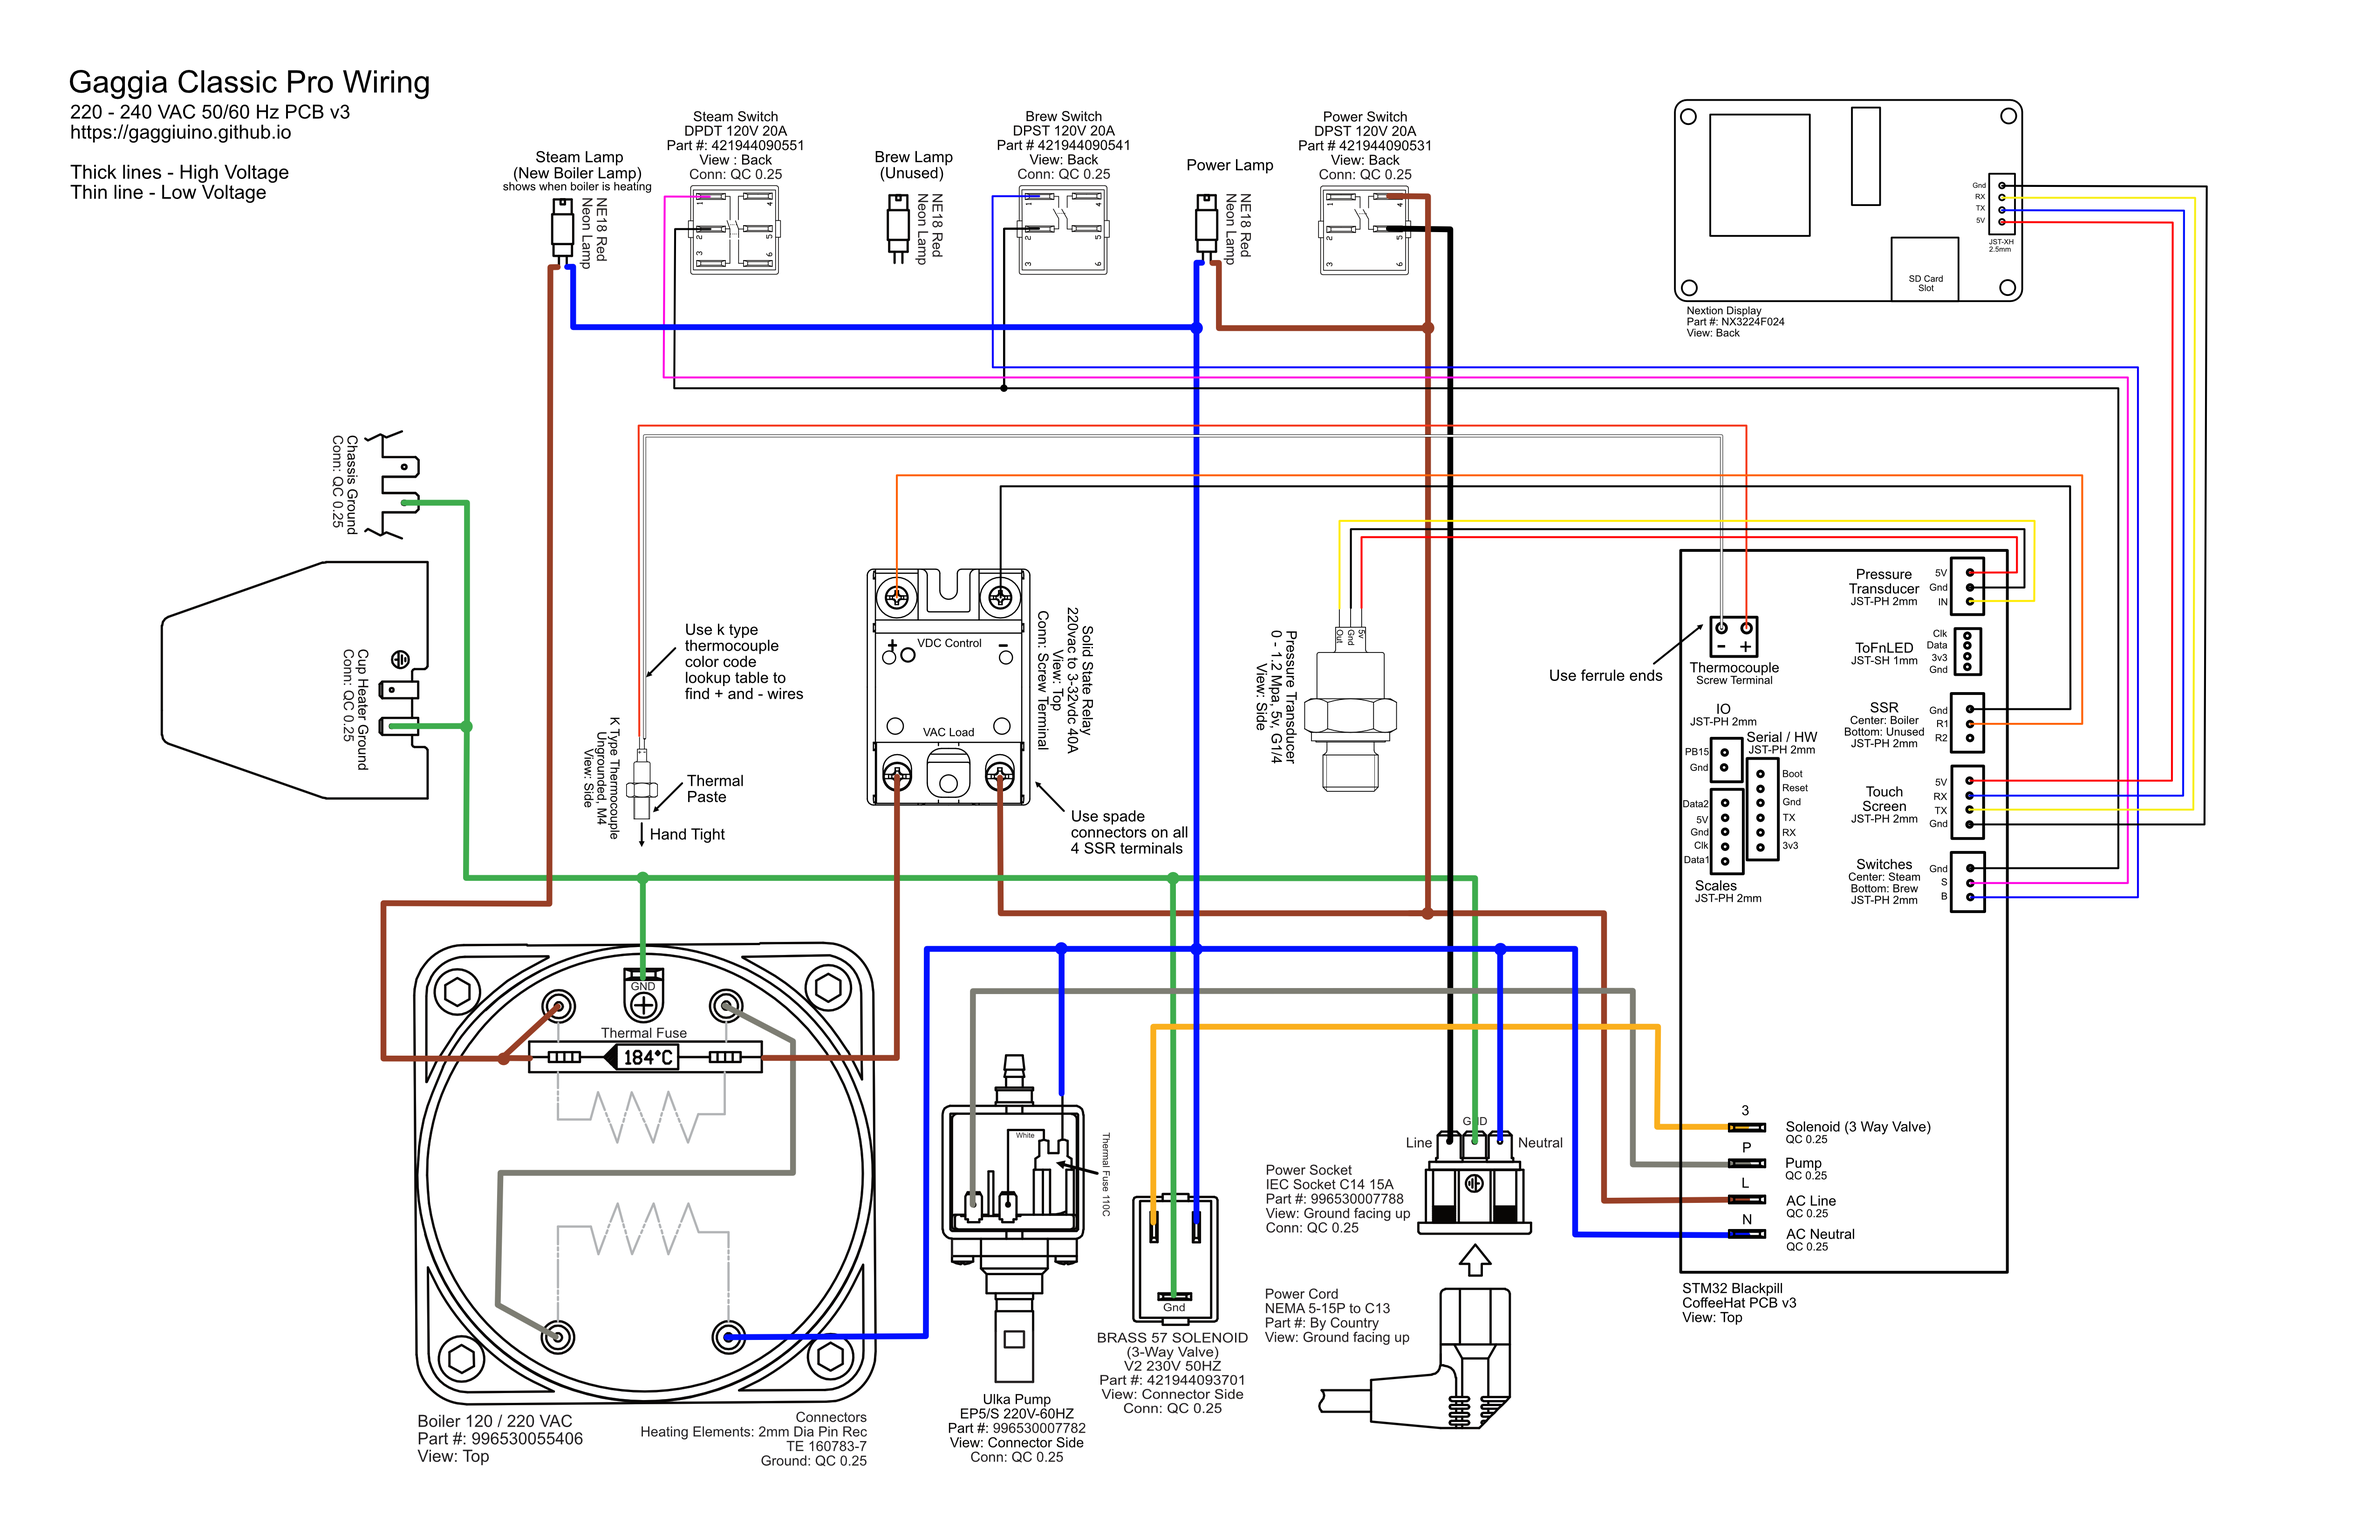
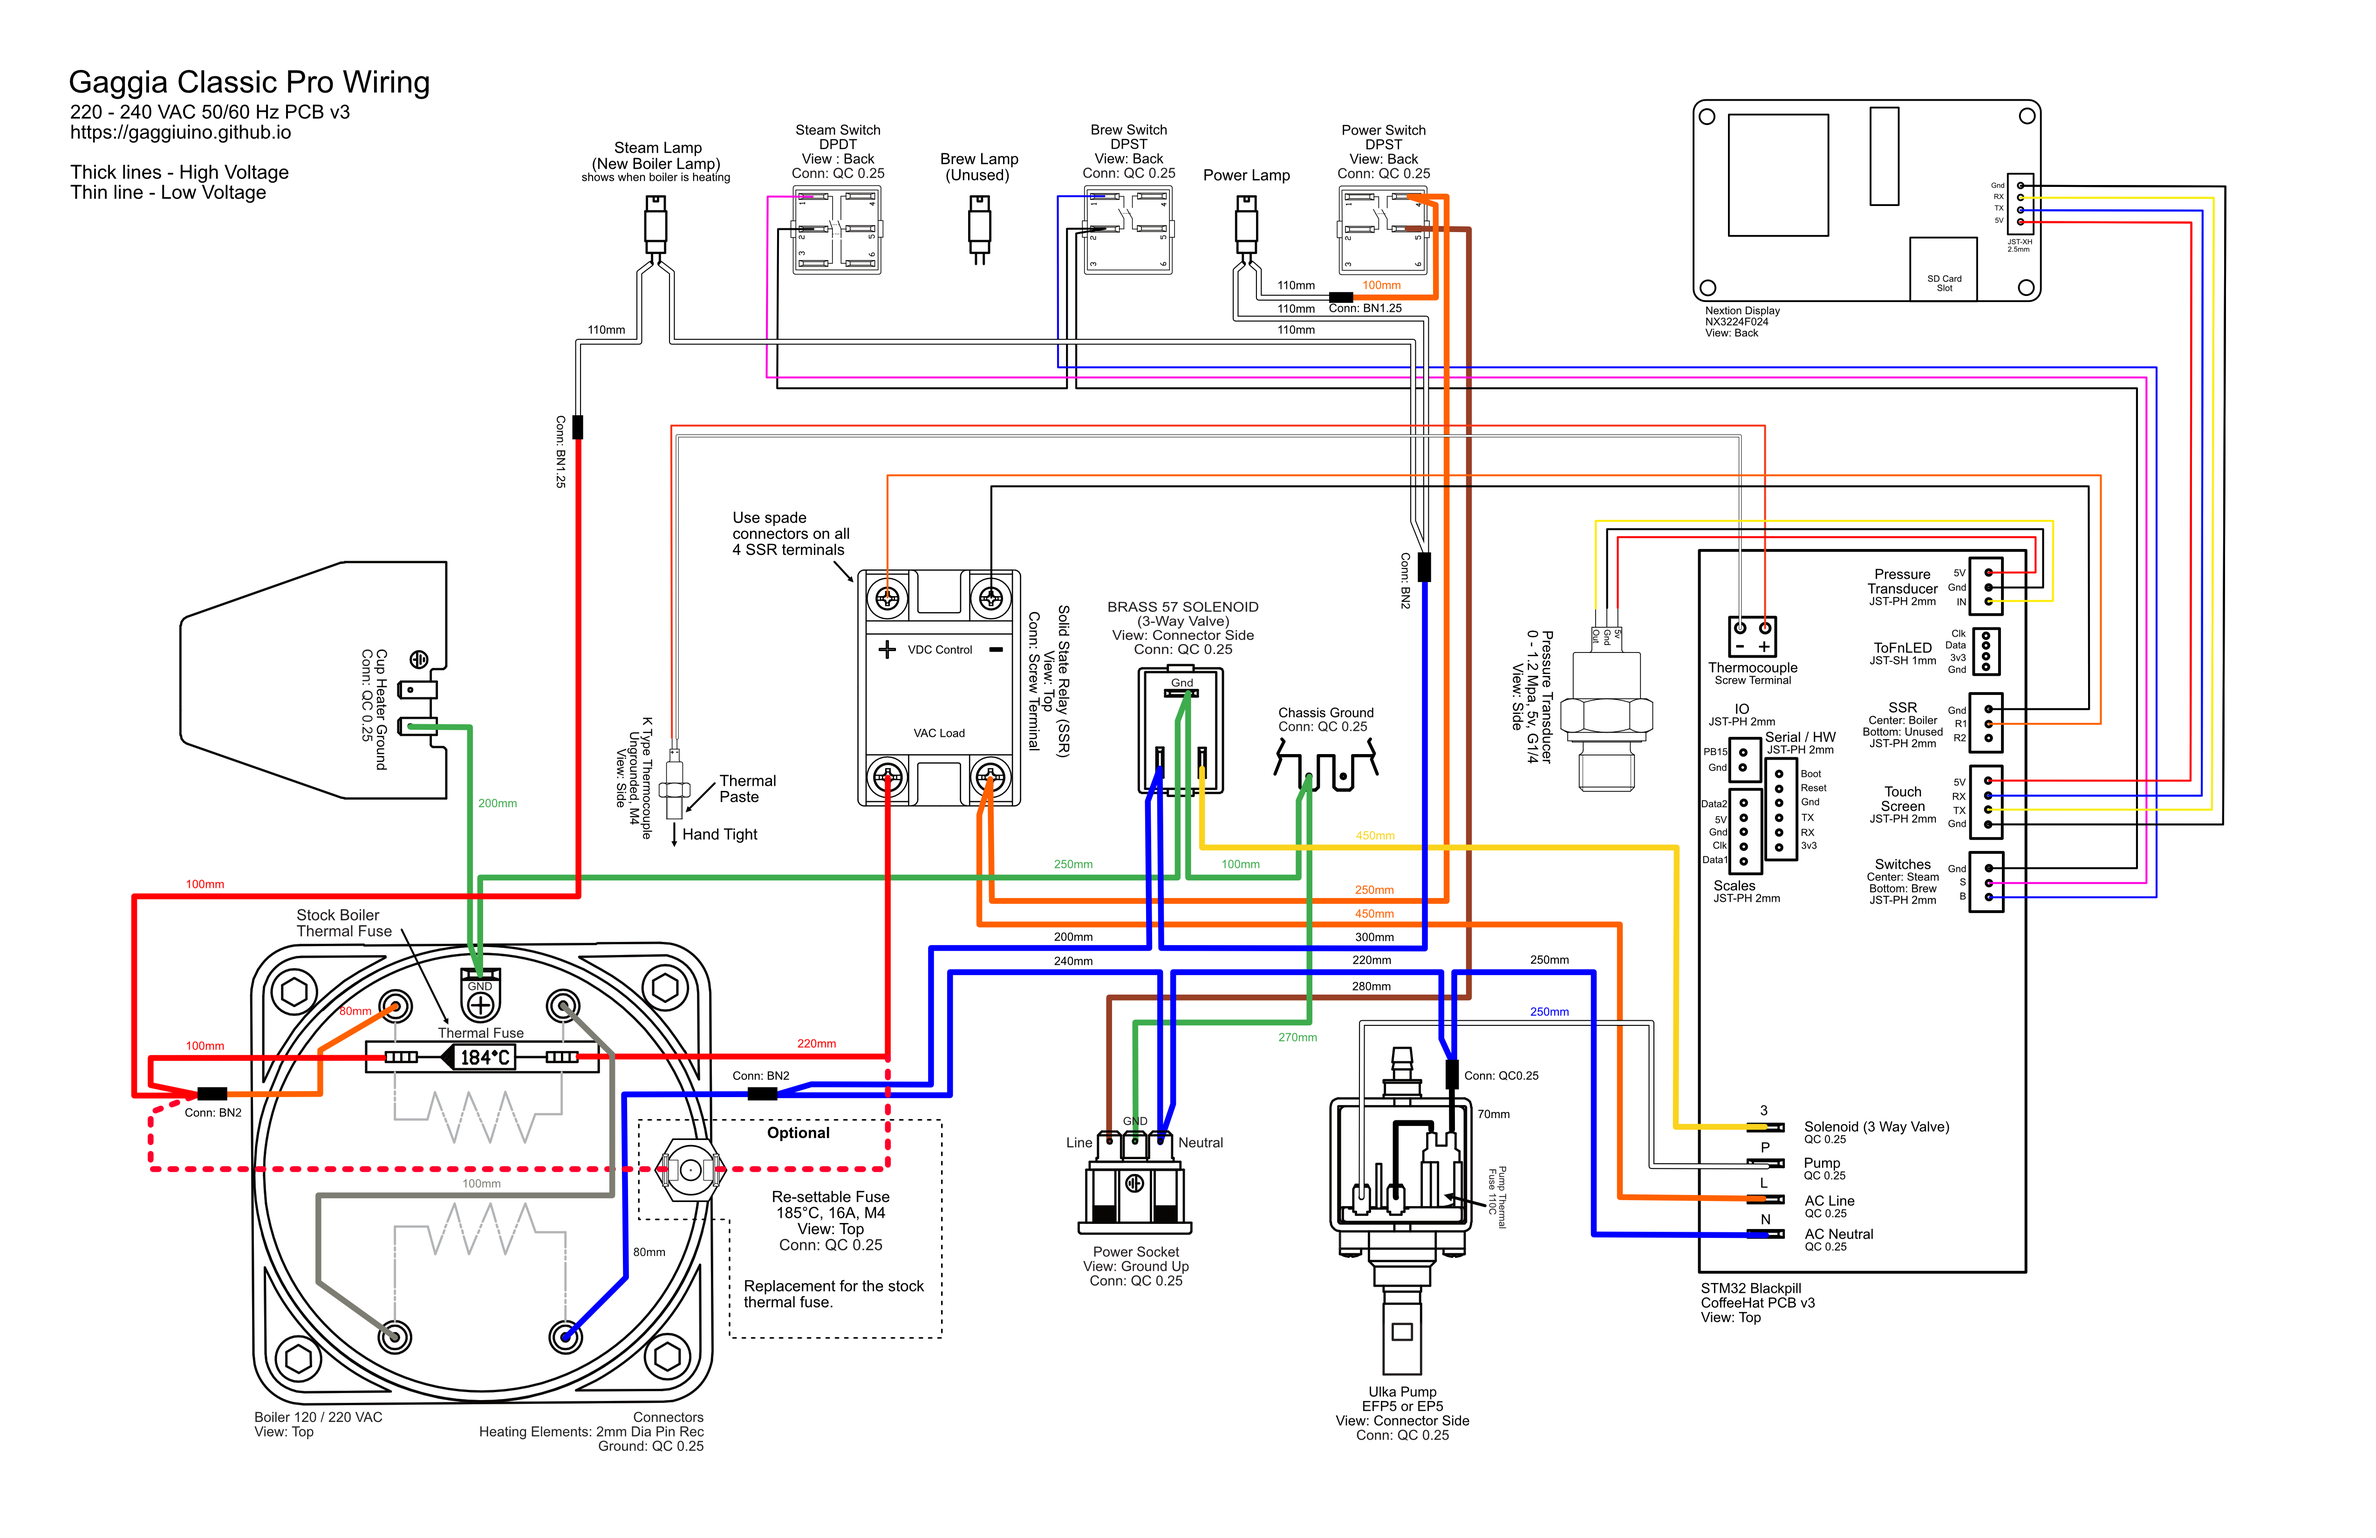
Update bench test with PCBv3.1. Add PCBv3.1 schematics, link and integrate. Align PCBv3 naming and remove old schematic revs from folder.

diff --git a/docs/guides-stm32/pcb-guide.md b/docs/guides-stm32/pcb-guide.md
@@ -21,14 +21,41 @@ See [MCU Flashing](guides-stm32/mcu-flashing.md) for instructions on flashing th
 
 <!-- tabs:start -->
 <!-- tab:GC -->
-<img height="400" alt="image" src="schematics/stm32-lv/GC_wiring_PCBv3_LV.png">
+  <!-- tabs:start -->
+  <!-- tab:PCBv3.1 -->
+  <img height="400" alt="image" src="schematics/stm32-lv/GC_wiring_PCBv3_1_LV.png">
+  <!-- tab:PCBv3 -->
+  <img height="400" alt="image" src="schematics/stm32-lv/GC_wiring_PCBv3_LV.png">
+  <!-- tabs:end -->
 <!-- tab:GCP -->
-<img height="400" alt="image" src="schematics/stm32-lv/GCP_wiring_PCBv3_LV.png">
+  <!-- tabs:start -->
+  <!-- tab:PCBv3.1 -->
+  <img height="400" alt="image" src="schematics/stm32-lv/GCP_wiring_PCBv3_1_LV.png">
+  <!-- tab:PCBv3 -->
+  <img height="400" alt="image" src="schematics/stm32-lv/GCP_wiring_PCBv3_LV.png">
+  <!-- tabs:end -->
 <!-- tabs:end -->
+
+<!-- tabs:start -->
+<!-- tab:PCBv3.1 -->
+Connect the system components - thermocouple, pressure transducer, screen, SSR, ToFnLED (if defined) - to the PCB and power on the system through the USB-C port on the PCB.  
+
+<img width="500" alt="image" src="https://github.com/GAGGIUINO/gaggiuino.github.io/assets/117388662/836fe705-8835-40f8-af33-fc063a7d09b0">
+
+If all is successful you should:
+- see a build number during boot (good PCB-Nextion communication)
+- see a "filling boiler" message a few seconds after boot and a red LED on the underside of the board lighting up at the same time
+- see a temperature reading on the screen that changes when heat is applied to the thermocouple
+- see the SSR light turn on if the temperature is below the setpoint (it will flash if temp is close to setpoint)
+- see a pressure value of 0.0 bar with no deviation
+- *not* see the steam temp as the target
+
+<!-- tab:PCBv3 -->
+Connect the system components - Blackpill, thermocouple, pressure transducer, screen, SSR, ToFnLED (if defined) - to the PCB and power on the system through the USB-C port on the blackpill.  
 
 <img width="500" alt="image" src="https://github.com/GAGGIUINO/gaggiuino.github.io/assets/117388662/20517917-3c40-4902-8e60-052e627a0c35">
 
-Connect the system components - Blackpill, thermocouple, pressure transducer, screen, SSR, ToFnLED (if defined) - to the PCB and power on the system through the USB-C port on the blackpill. If all is successful you should:
+If all is successful you should:
 - see a build number during boot (good Blackpill-Nextion communication)
 - see a "filling boiler" message a few seconds after boot
 - see a temperature reading on the screen that changes when heat is applied to the thermocouple
@@ -36,8 +63,11 @@ Connect the system components - Blackpill, thermocouple, pressure transducer, sc
 - see a pressure value of 0.0 bar with no deviation
 - *not* see the steam temp as the target
 
->[!Tip]
->The system will not initialize if the ToFnLED board was enabled in the software but isn't plugged in
+<!-- tabs:end -->
+
+> [!Note|style:callout|label:Notes]
+> * The system will not initialize if the ToFnLED board was enabled in the software but isn't plugged in
+> * If built, HW scales can be included in the bench test and even calibrated at this point
 
 **Continue the install by referencing the 3PLN machine-specific schematics and/or install instructions that apply to your desired build path:**
 * [3PLN Stock Wiring Integration](guides-stm32/3pln-stock-wiring-integration.md) page.

diff --git a/docs/guides-stm32/3pln-custom-wiring.md b/docs/guides-stm32/3pln-custom-wiring.md
@@ -39,18 +39,44 @@ The BOM is compiled for the standard install path where all components are taken
 <!-- tabs:start -->
 <!-- tab:Gaggia Classic 100-120v -->
 
-*Remember to check and add [Grounding](guides/machine-specific-guide.md) if needed.*
+*Remember to check and add [Grounding](guides/machine-specific-guide.md#grounding) if needed.*  
 
-<img width="600" alt="GC 120v" src="schematics/custom-3pln/GC_wiring_PCBv3_120v_v2.png">
+<!-- tabs:start -->
+<!-- tab:PCBv3.1 -->
+<img width="600" alt="GC 120v" src="schematics/custom-3pln/GC_wiring_PCBv3_1_120v.png">
+<!-- tab:PCBv3 -->
+<img width="600" alt="GC 120v" src="schematics/custom-3pln/GC_wiring_PCBv3_120v.png">
+<!-- tabs:end -->
+
 <!-- tab:Gaggia Classic 220-240v -->
-<img width="600" alt="GC 220v" src="schematics/custom-3pln/GC_wiring_PCBv3_220v_v2.png">
+
+<!-- tabs:start -->
+<!-- tab:PCBv3.1 -->
+<img width="600" alt="GC 220v" src="schematics/custom-3pln/GC_wiring_PCBv3_1_220v.png">
+<!-- tab:PCBv3 -->
+<img width="600" alt="GC 220v" src="schematics/custom-3pln/GC_wiring_PCBv3_220v.png">
+<!-- tabs:end -->
+
 <!-- tab:Gaggia Classic Pro 100-120v -->
-<img width="600" alt="GCP 120v" src="schematics/custom-3pln/GCP_wiring_PCBv3_120v_v2.png">
+
+<!-- tabs:start -->
+<!-- tab:PCBv3.1 -->
+<img width="600" alt="GCP 120v" src="schematics/custom-3pln/GCP_wiring_PCBv3_1_120v.png">
+<!-- tab:PCBv3 -->
+<img width="600" alt="GCP 120v" src="schematics/custom-3pln/GCP_wiring_PCBv3_120v.png">
+<!-- tabs:end -->
+
 <!-- tab:Gaggia Classic Pro 220-240v -->
 
-*Remember to do the [Power switch mod](https://www.youtube.com/embed/WNs3uSLA4Ts?start=99&end=151) to make it bistable.*  
+*Remember to do the [Power switch mod](guides/machine-specific-guide.md#power-switch-mod) to make it bistable.*  
 
-<img width="600" alt="GCP 220v" src="schematics/custom-3pln/GCP_wiring_PCBv3_220v_v2.png">
+<!-- tabs:start -->
+<!-- tab:PCBv3.1 -->
+<img width="600" alt="GCP 220v" src="schematics/custom-3pln/GCP_wiring_PCBv3_1_220v.png">
+<!-- tab:PCBv3 -->
+<img width="600" alt="GCP 220v" src="schematics/custom-3pln/GCP_wiring_PCBv3_220v.png">
+<!-- tabs:end -->
+
 <!-- tabs:end -->
 
 **Examples of the high voltage 3PLN custom wiring harness:**
